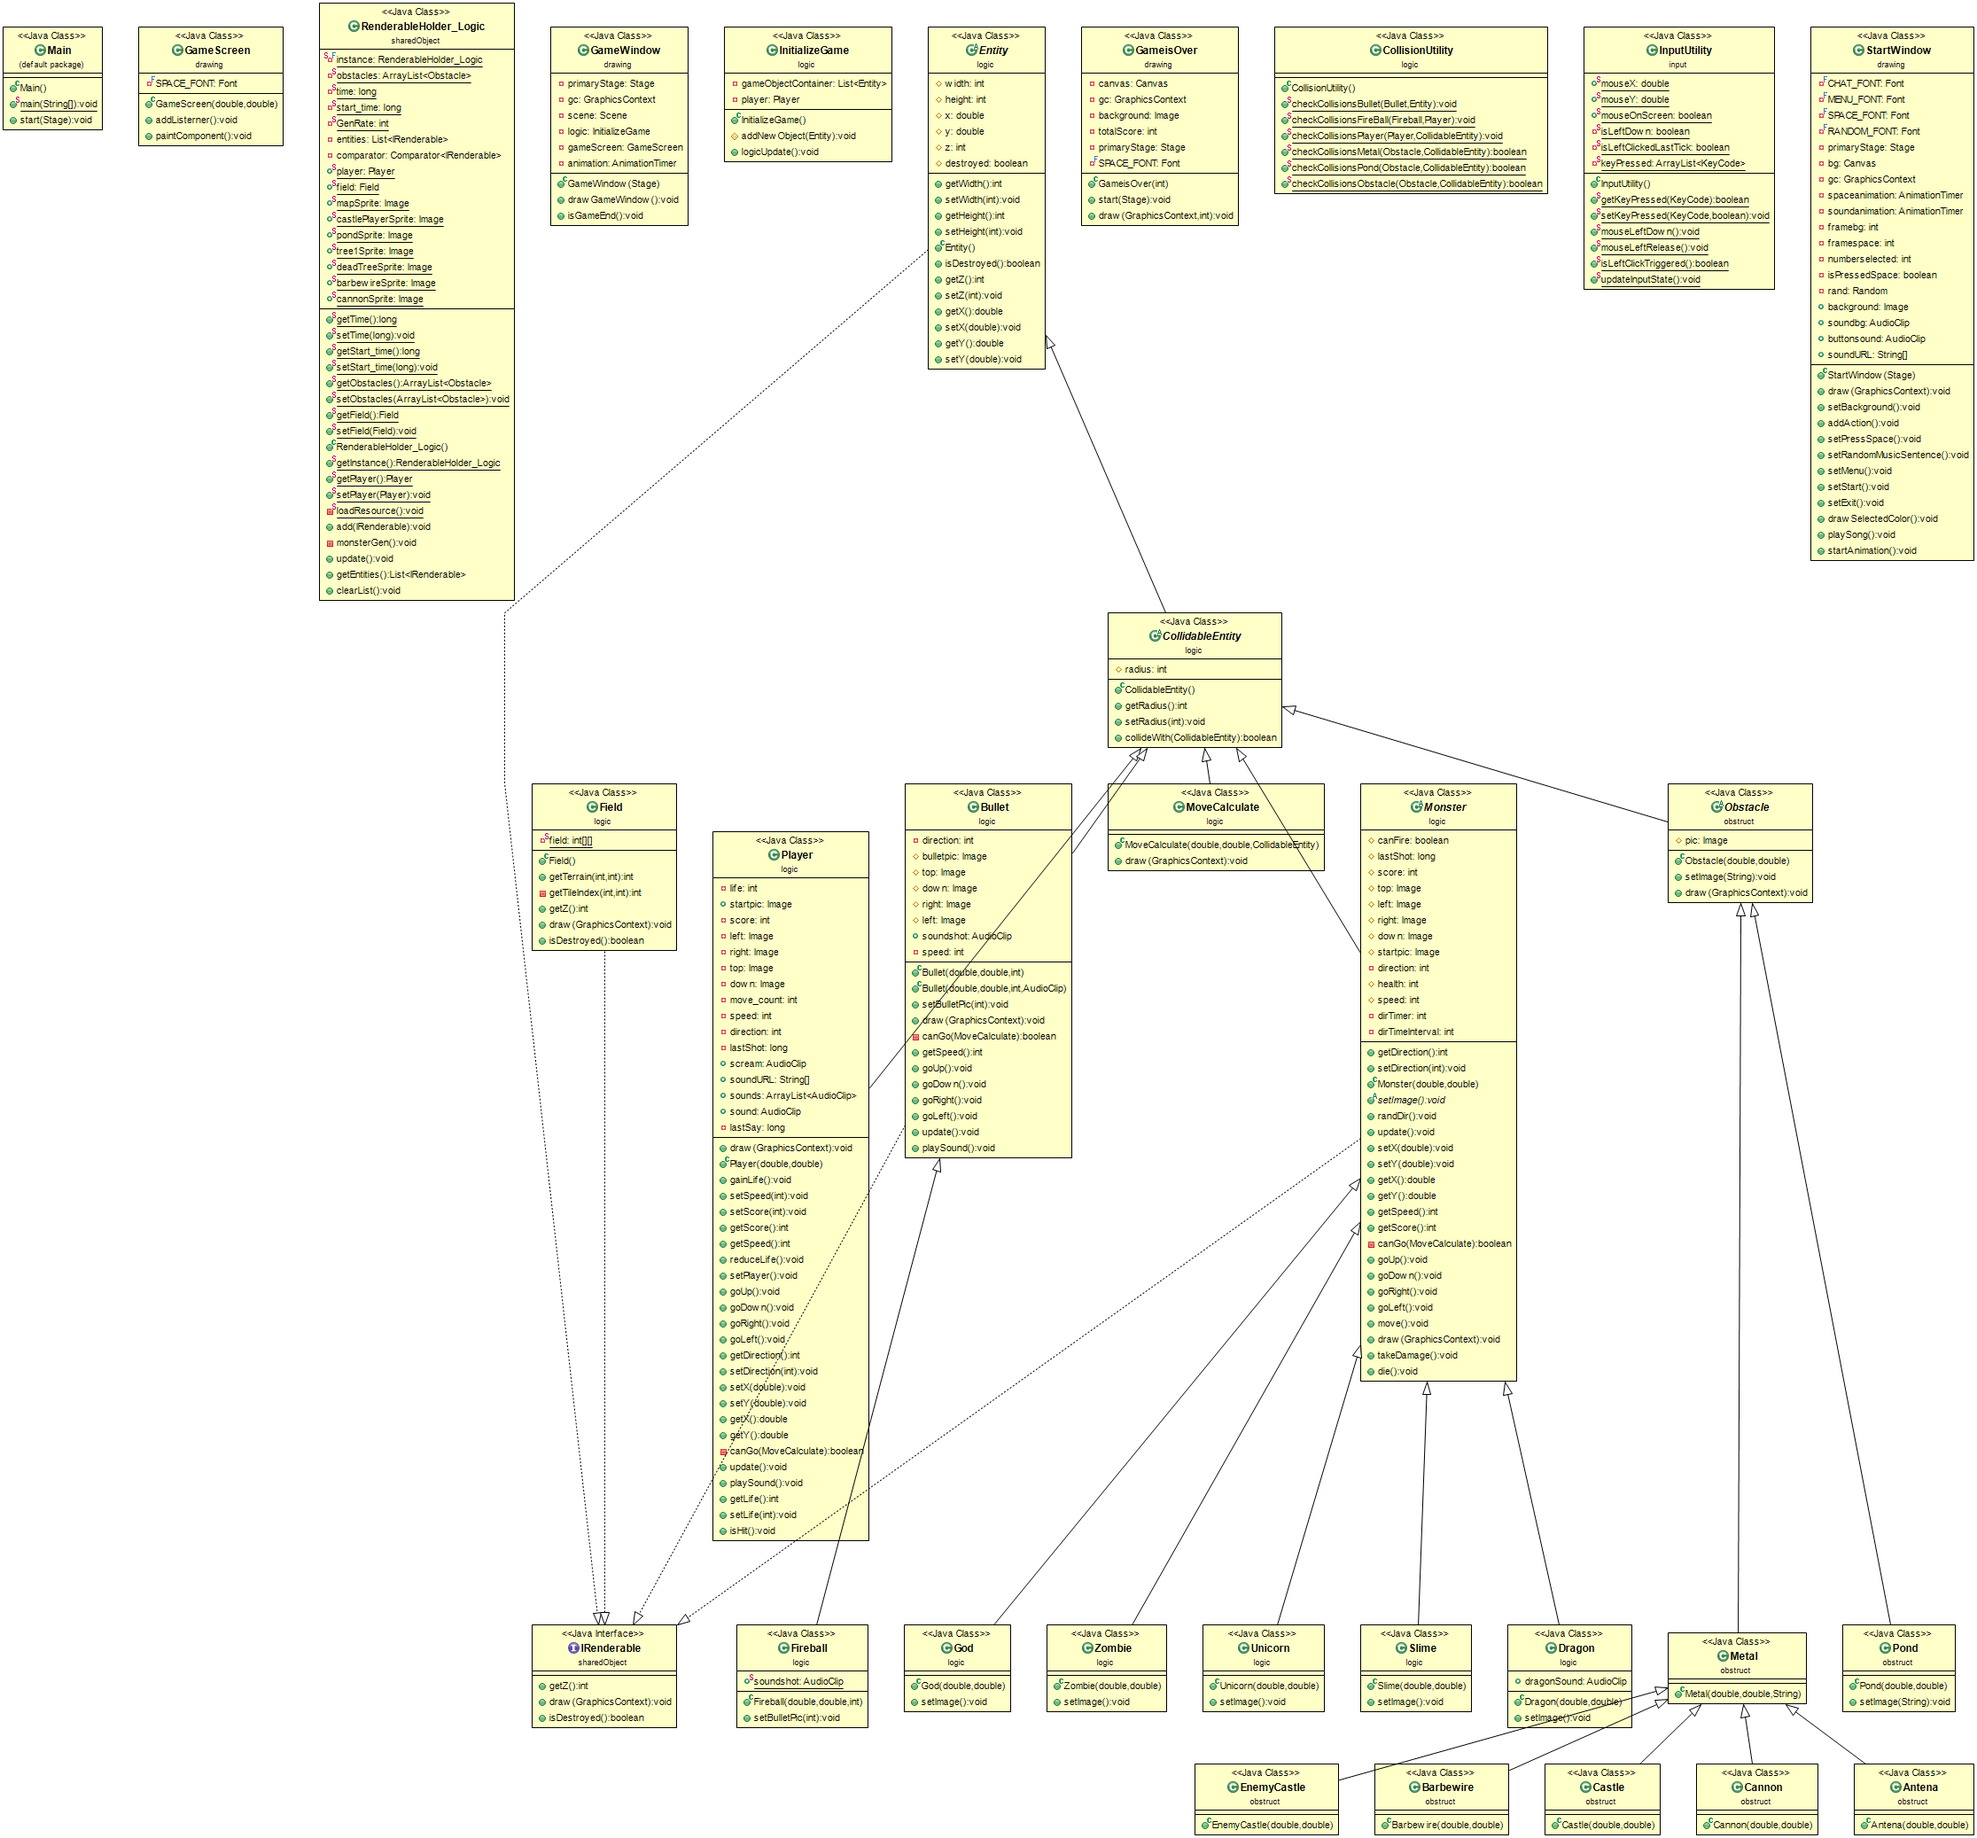
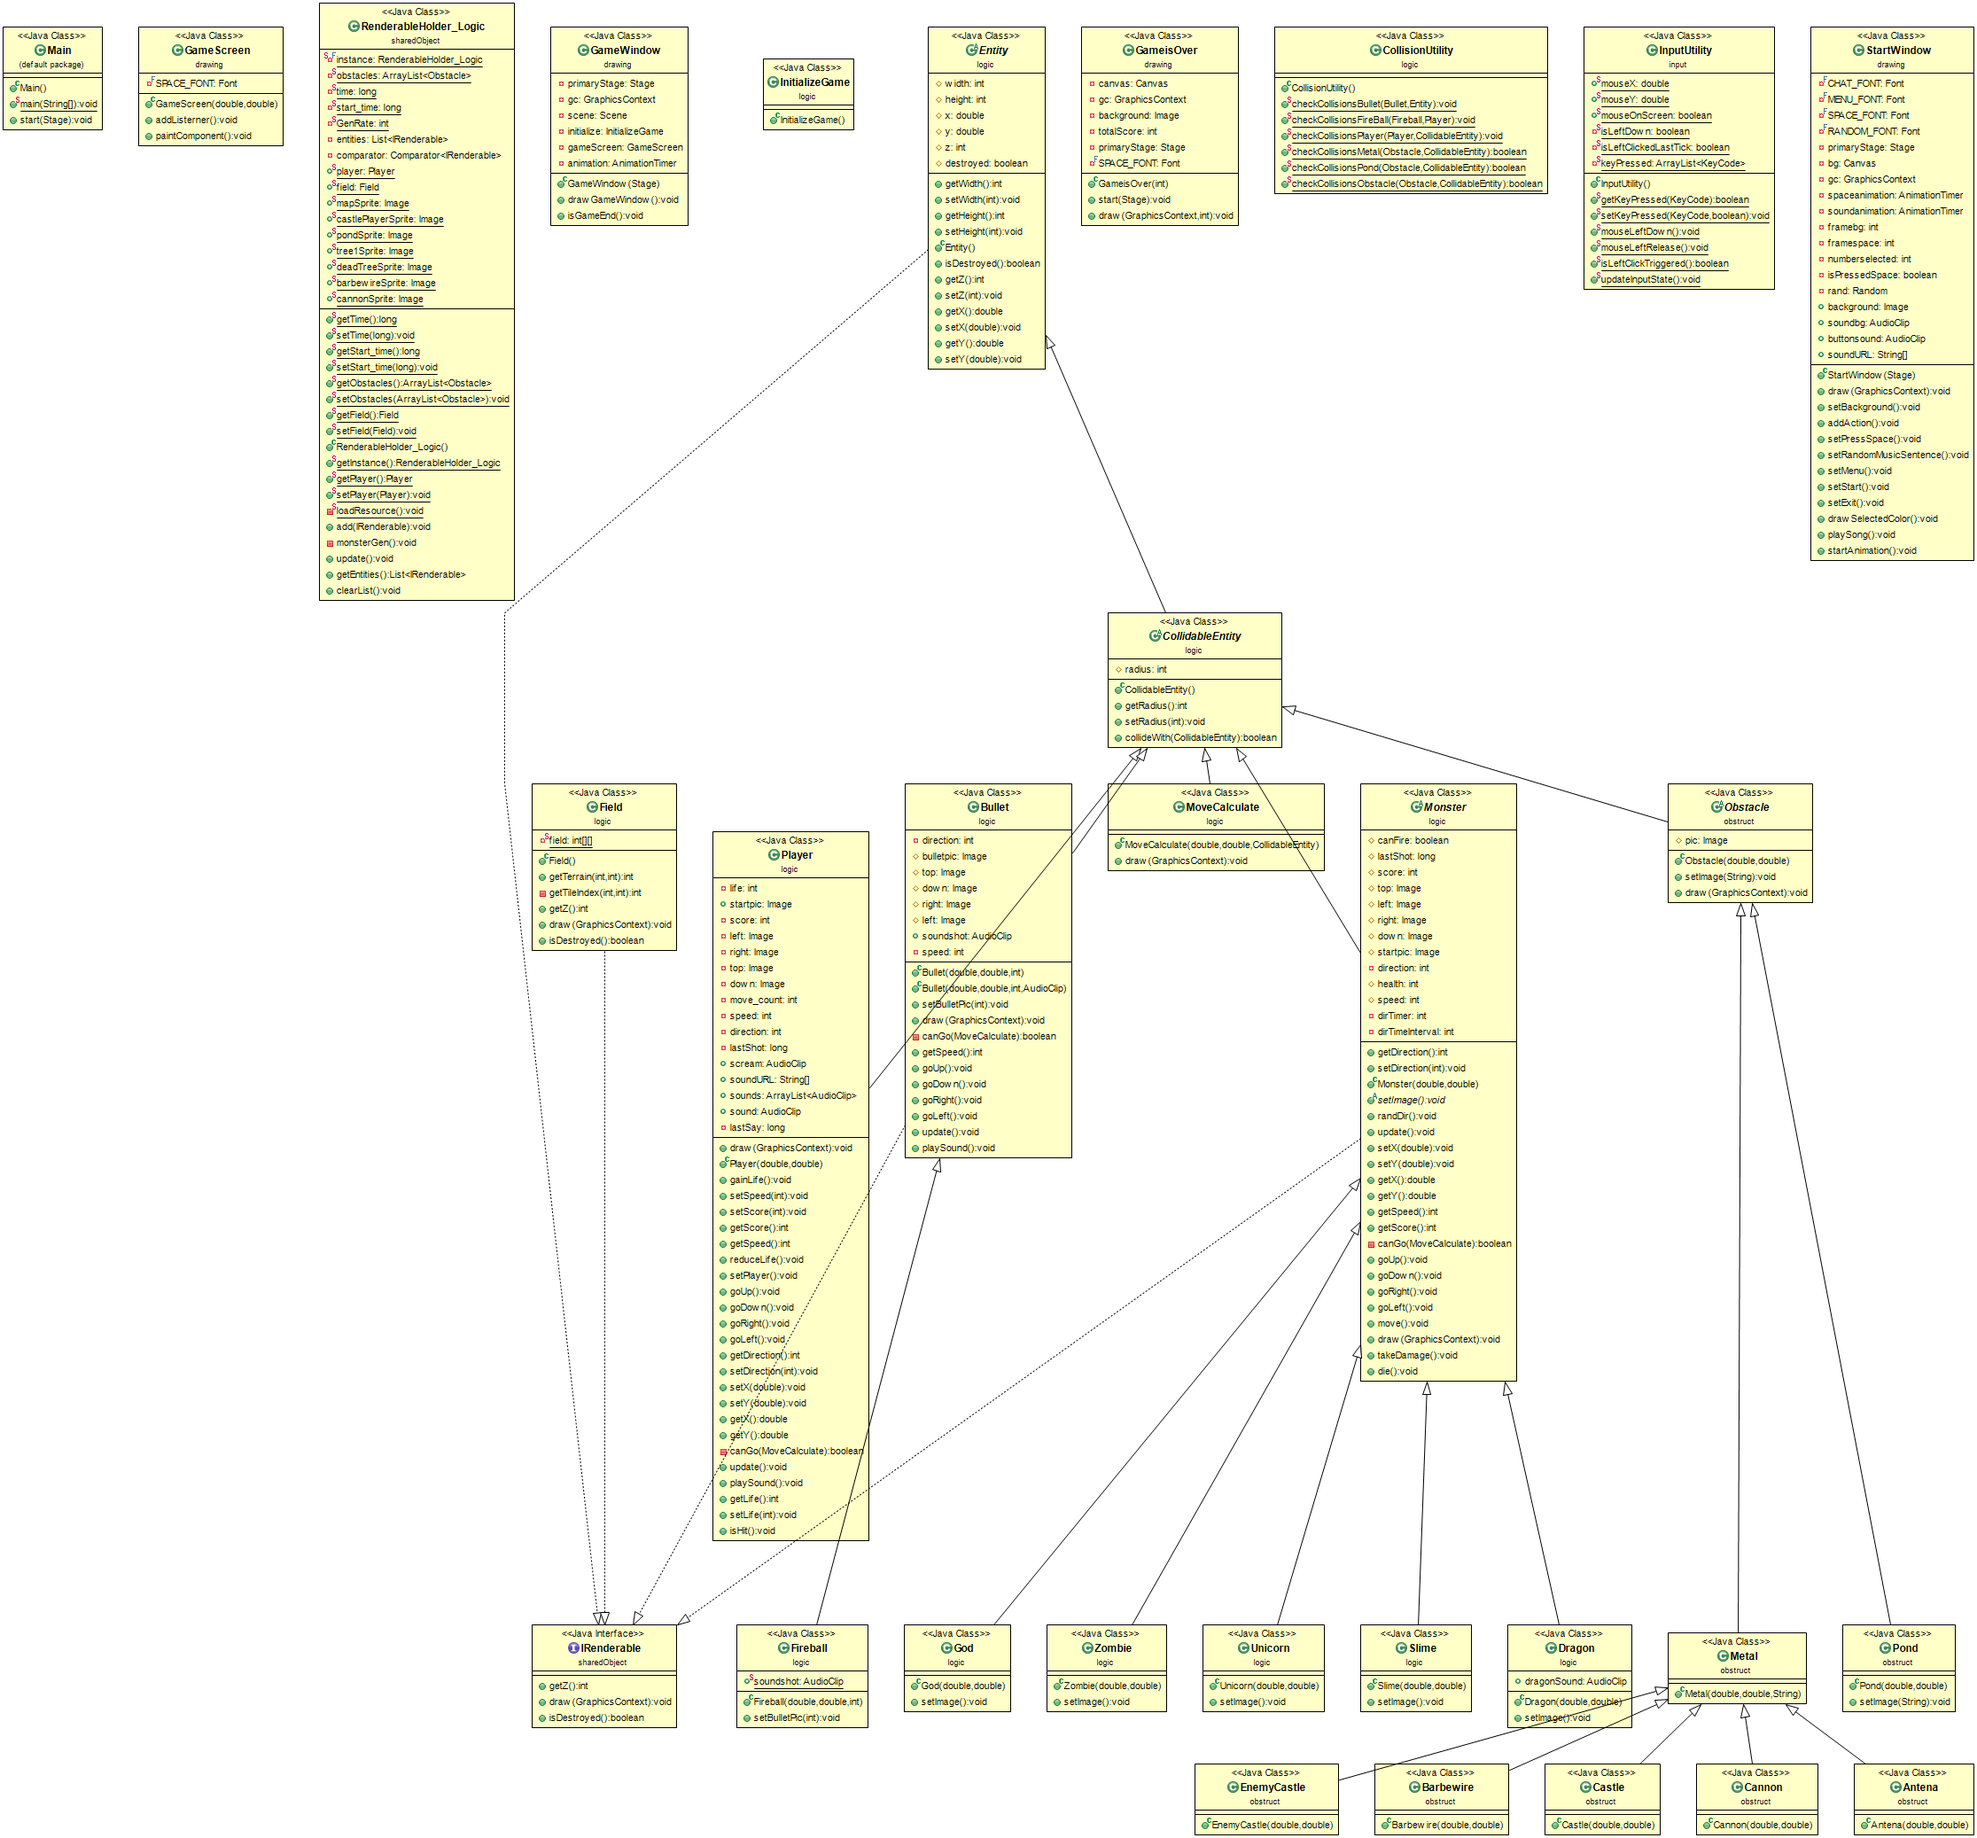
remove secondary update

Changed region(s): [[0.3402, 0.0, 0.4639, 0.0926]]

diff --git a/TheLegendSlayerFX/src/logic/InitializeGame.java b/TheLegendSlayerFX/src/logic/InitializeGame.java
@@ -7,16 +7,13 @@ import obstruct.*;
 import sharedObject.RenderableHolder_Logic;
 
 public class InitializeGame {
-	private List<Entity> gameObjectContainer;
-	private Player player;
 
 	public InitializeGame() {
-		this.gameObjectContainer = new ArrayList<Entity>();
 		System.out.println("new field");
 		Field field = new Field();
 		System.out.println("new field completed");
 		RenderableHolder_Logic.getInstance().add(field);
-		player = new Player(200, 500);
+		Player player = new Player(200, 500);
 		Antena antena = new Antena(50, 100);
 		Pond pond = new Pond(450, 200);
 		Cannon cannon1 = new Cannon(150, 0);
@@ -58,19 +55,15 @@ public class InitializeGame {
 		RenderableHolder_Logic.getInstance().add(bar4);
 		RenderableHolder_Logic.getObstacles().add(bar5);
 		RenderableHolder_Logic.getInstance().add(bar5);
-		addNewObject(player);
+		RenderableHolder_Logic.getInstance().add(player);
 
 	}
 
-	protected void addNewObject(Entity entity) {
-		gameObjectContainer.add(entity);
-		RenderableHolder_Logic.getInstance().add(entity);
-	}
 
-	public void logicUpdate() {
-		player.update();
-
-//		
-//	
-	}
+//	public void logicUpdate() {
+//		player.update();
+//
+////		
+////	
+//	}
 }

diff --git a/TheLegendSlayerFX/src/drawing/GameWindow.java b/TheLegendSlayerFX/src/drawing/GameWindow.java
@@ -20,7 +20,7 @@ public class GameWindow extends Canvas{
 	private Stage primaryStage;
 	private GraphicsContext gc;
 	private Scene scene;
-	private InitializeGame logic;
+	private InitializeGame initialize;
 	private GameScreen gameScreen;
 	private AnimationTimer animation;
 
@@ -34,7 +34,7 @@ public class GameWindow extends Canvas{
 		scene = new Scene(s);
 		this.primaryStage.setScene(scene);
 		this.primaryStage.setTitle("The Legend Slayer");
-		logic = new InitializeGame();
+		initialize = new InitializeGame();
 		gameScreen = new GameScreen(800, 600);
 		s.getChildren().add(gameScreen);
 		gameScreen.requestFocus();
@@ -42,7 +42,6 @@ public class GameWindow extends Canvas{
 	public void drawGameWindow() {     
         this.animation = new AnimationTimer() {
             public void handle(long now) {
-                logic.logicUpdate();
                 gameScreen.paintComponent();
                 RenderableHolder_Logic.getInstance().update();
                 InputUtility.updateInputState();
